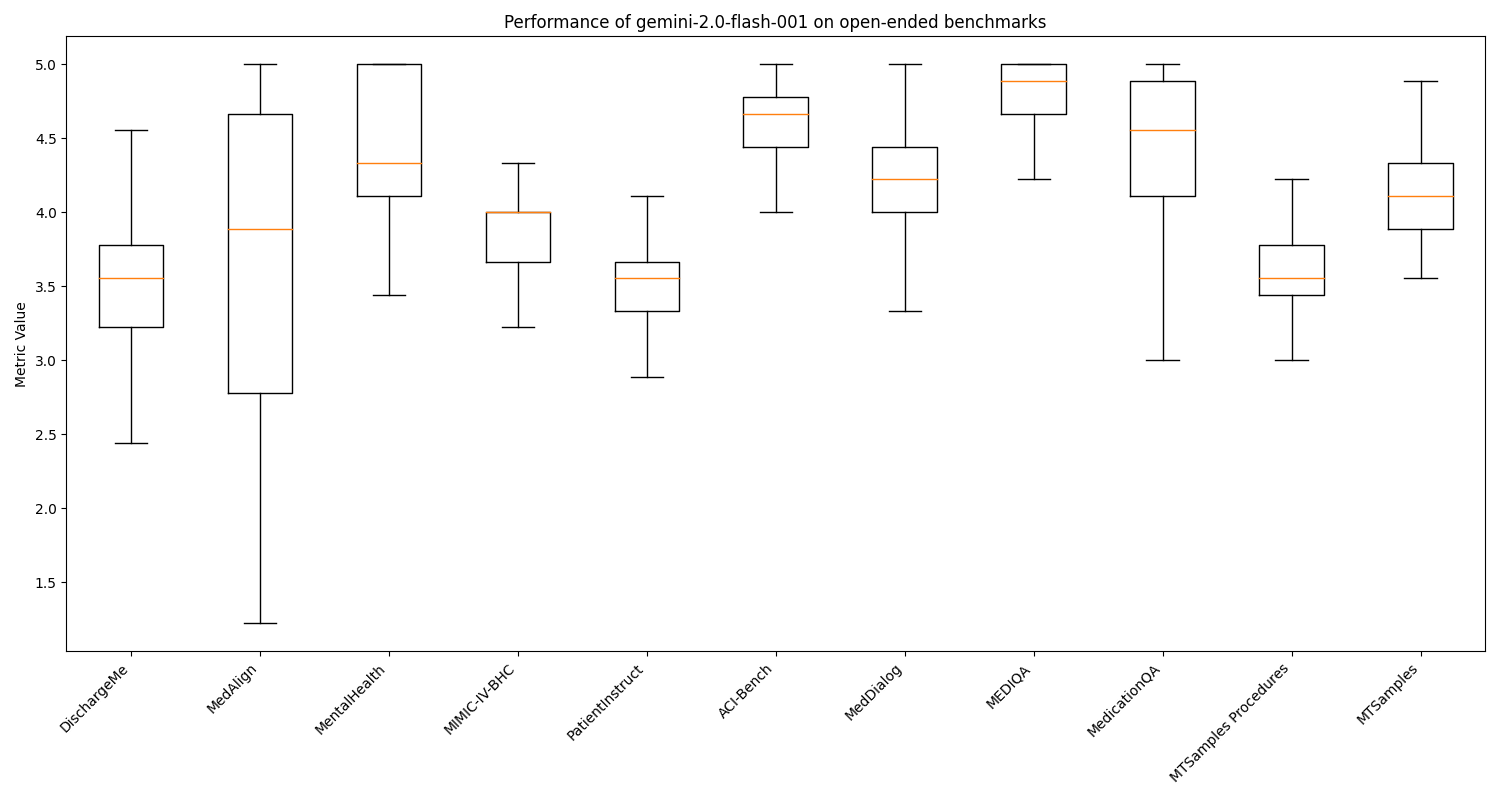
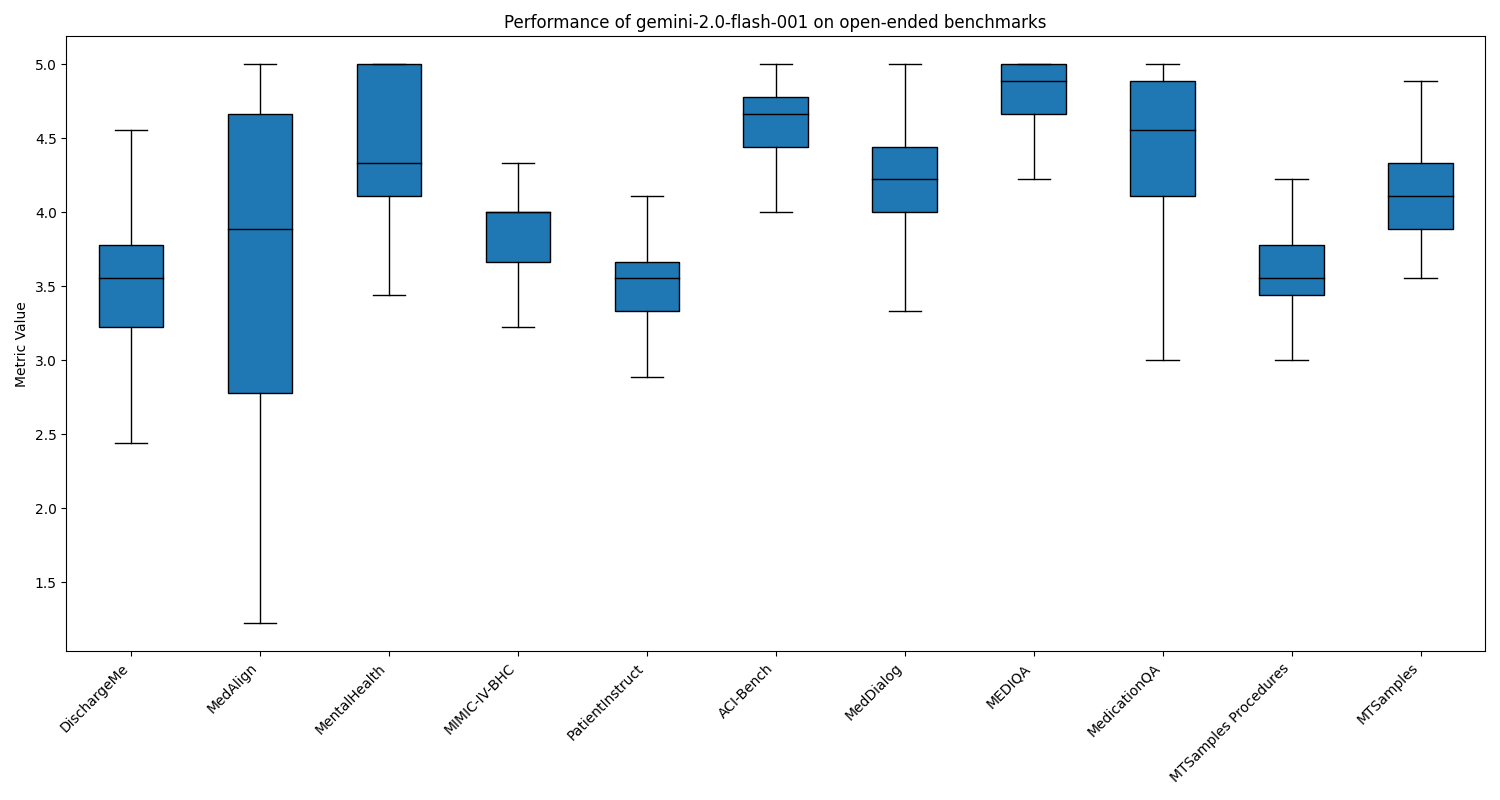
Update box plots

diff --git a/src/medhelm/plots/plot_open_ended_box_plots.py b/src/medhelm/plots/plot_open_ended_box_plots.py
@@ -5,6 +5,7 @@ from tqdm import tqdm
 import json
 import numpy as np
 import matplotlib.pyplot as plt
+import matplotlib.cm as cm
 
 
 from helm.benchmark.run_spec import RunSpec
@@ -137,7 +138,8 @@ def generate_plots(
 
 def generate_box_plots(
     metric_data: Dict[str, Dict[str,List[float]]],
-    output_dir: str, model: str
+    output_dir: str,
+    model: str
 ):
     """Generate and save box plots for metric data."""
     if not os.path.exists(output_dir):
@@ -148,7 +150,16 @@ def generate_box_plots(
     scenarios = list(BENCHMARK_NAME_MAPPING[scenario] for scenario in metric_data[model].keys())
     
     plt.figure(figsize=(15, 8))
-    plt.boxplot(data, labels=scenarios, showfliers=False)
+    box = plt.boxplot(data, patch_artist=True, labels=scenarios, showfliers=False)
+
+    # Set a uniform color for all boxes
+    color = "#1f77b4"  # Matplotlib's default blue
+
+    for patch in box["boxes"]:
+        patch.set_facecolor(color)
+    for median in box["medians"]:
+        median.set_color("black")
+
     plt.xticks(rotation=45, ha='right')
     plt.ylabel("Metric Value")
     plt.title(f"Performance of {model} on open-ended benchmarks")
